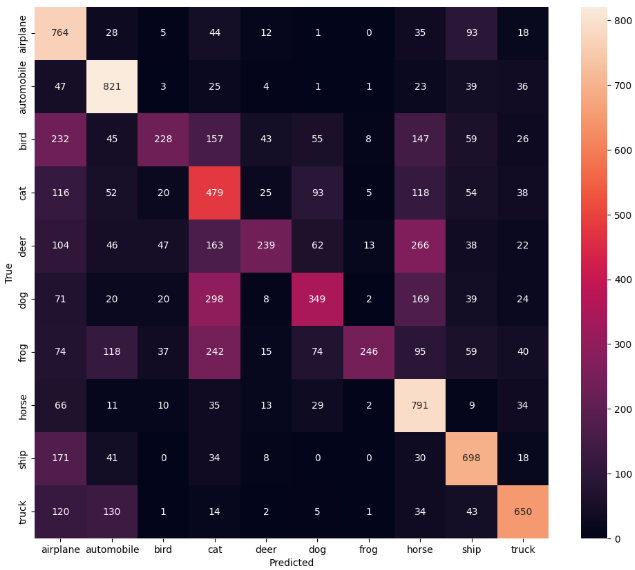
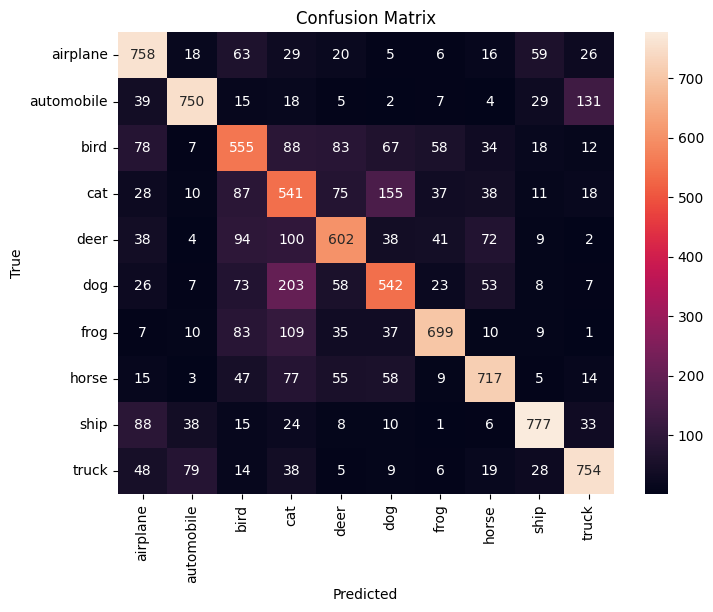
Add files via upload

diff --git a/Performance/CNN CIFAR-10.py b/Performance/CNN CIFAR-10.py
@@ -1,0 +1,74 @@
+import tensorflow as tf
+from tensorflow.keras import datasets,layers,models
+import matplotlib.pyplot as plt
+import numpy as np
+from sklearn.metrics import confusion_matrix,classification_report
+
+classes=["airplane","automobile","bird","cat","deer","dog","frog","horse","ship","truck"]
+
+def plot_sample(X,y,index):
+    plt.figure(figsize=(15,2))
+    plt.imshow(X[index])
+    plt.xlabel(classes[index])
+
+(X_train,y_train),(X_test,y_test) = datasets.cifar10.load_data()
+
+#X_train.shape=10,000,32,32,3-> no of im,pixels,pixels,rgb range
+
+#Reshaping 2-D array to 1-D array
+
+y_train=y_train.reshape(-1,)  #==(-1,1)
+
+#Scaling rgb ranges
+
+X_train=X_train/255
+X_test=X_test/255
+
+ann = models.Sequential([
+    layers.Flatten(input_shape=(32,32,3)),
+    layers.Dense(3000,activation='relu'),
+    layers.Dense(1000,activation='relu'),
+    layers.Dense(10,activation='sigmoid')
+])
+
+ann.compile(optimizer='SGD',
+            loss='sparse_categorical_crossentropy',
+            metrics=['accuracy'])
+
+ann.fit(X_train,y_train,epochs=5)
+
+ann.evaluate(X_test,y_test)
+
+print("Classification report: \n",classification_report(y_test,y_pred_classes))
+
+#Using CNN to improve model
+
+cnn = models.Sequential([
+    #CNN
+    layers.Conv2D(filters=32,kernel_size=(3,3),activation="relu", input_shape=(32,32,3)),
+    layers.MaxPooling2D((2,2)),
+
+    layers.Conv2D(filters=64,kernel_size=(3,3),activation='relu'),
+    layers.MaxPooling2D((2,2)),
+
+    #Filters are how many features my model can detect, kernel size is the size of the matrix we shift to recognize features
+    #i.e feature maps. Here stride is (1,1) ny default 
+
+    #dense
+    layers.Flatten(),
+    layers.Dense(64,activation='relu'),
+    layers.Dense(10,activation='softmax'),
+])
+
+cnn.compile(
+    optimizer='adam',
+    loss='sparse_categorical_crossentropy',
+    metrics=['accuracy']
+)
+
+cnn.fit(X_train,y_train,epochs=10)
+
+cnn.evaluate(X_test,y_test)
+
+print("Classification report: \n",classification_report(y_test,classes))
+
